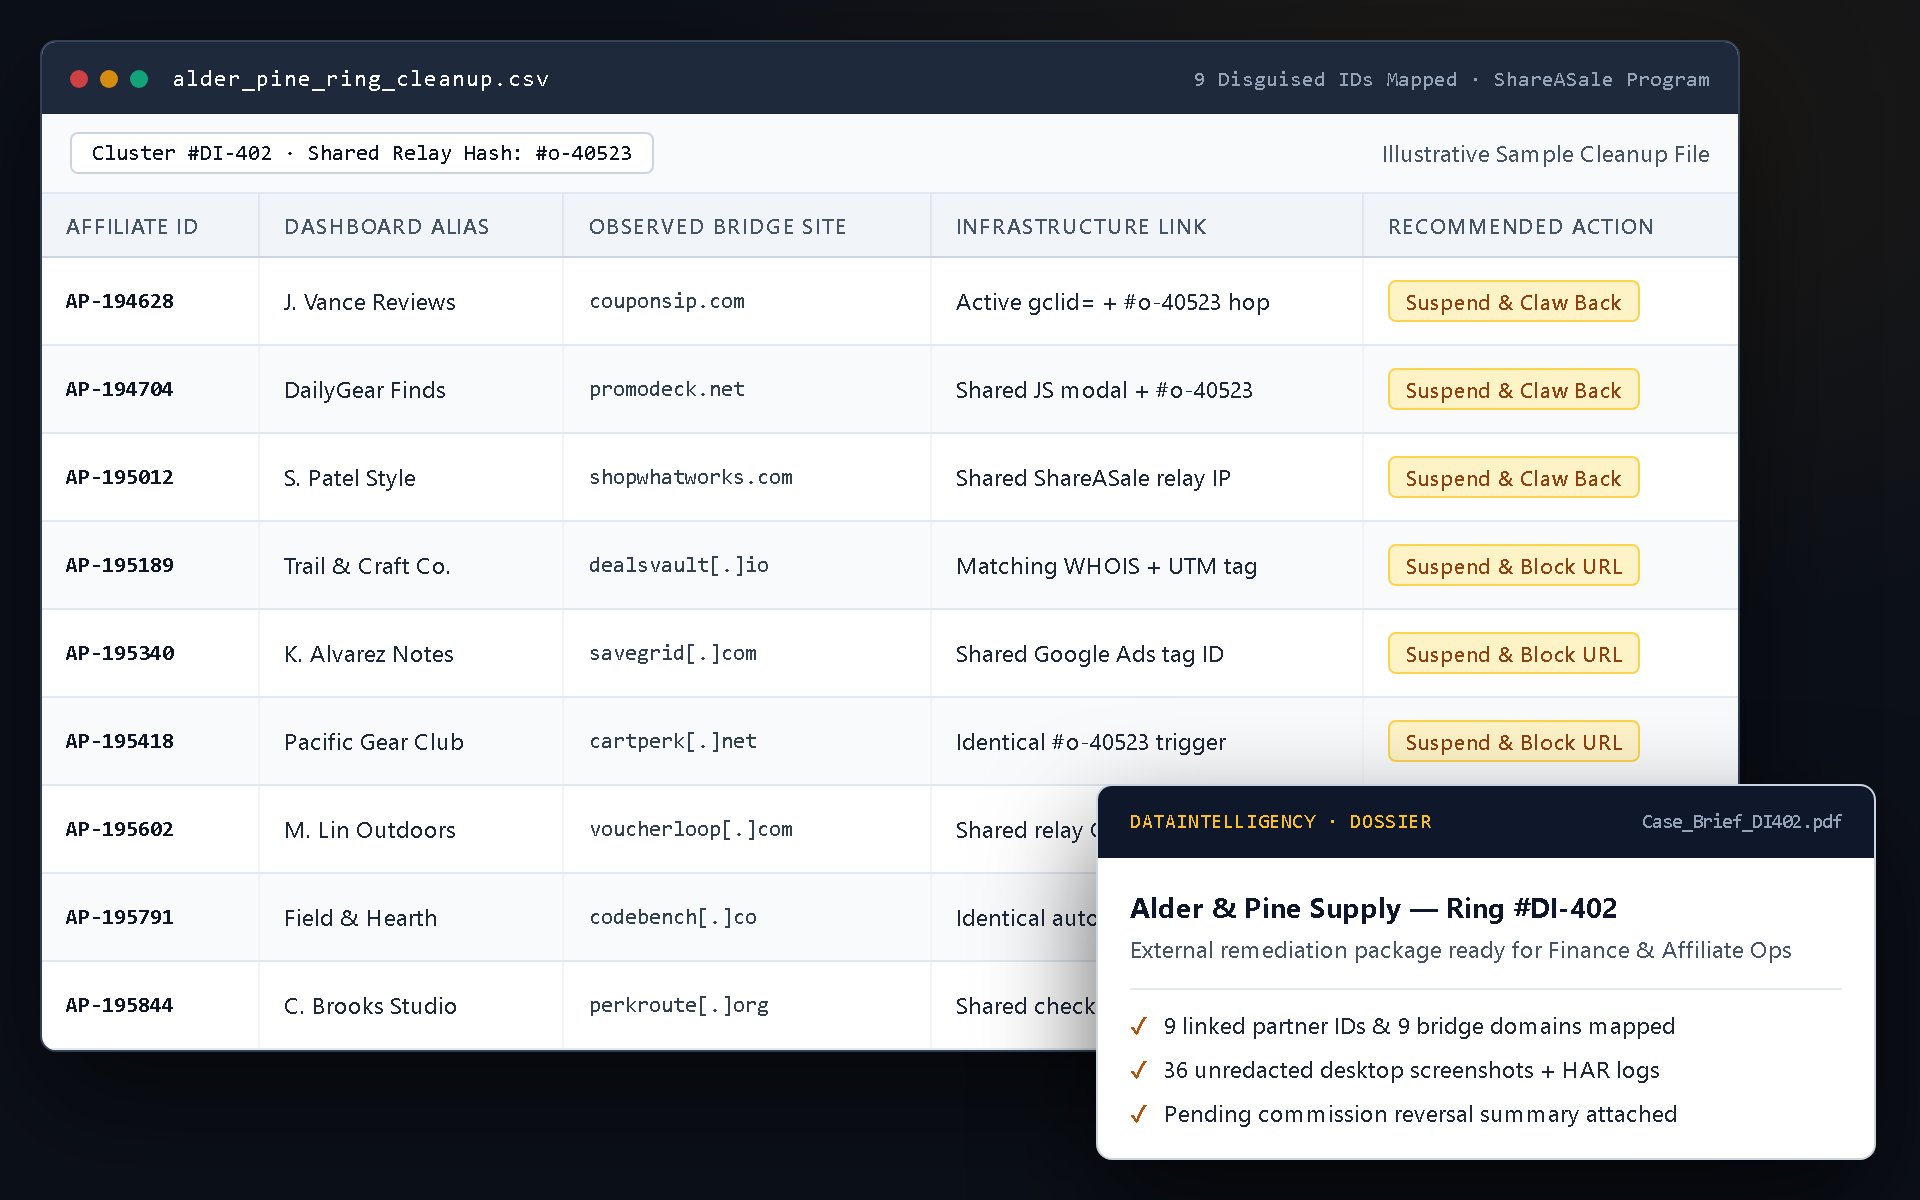
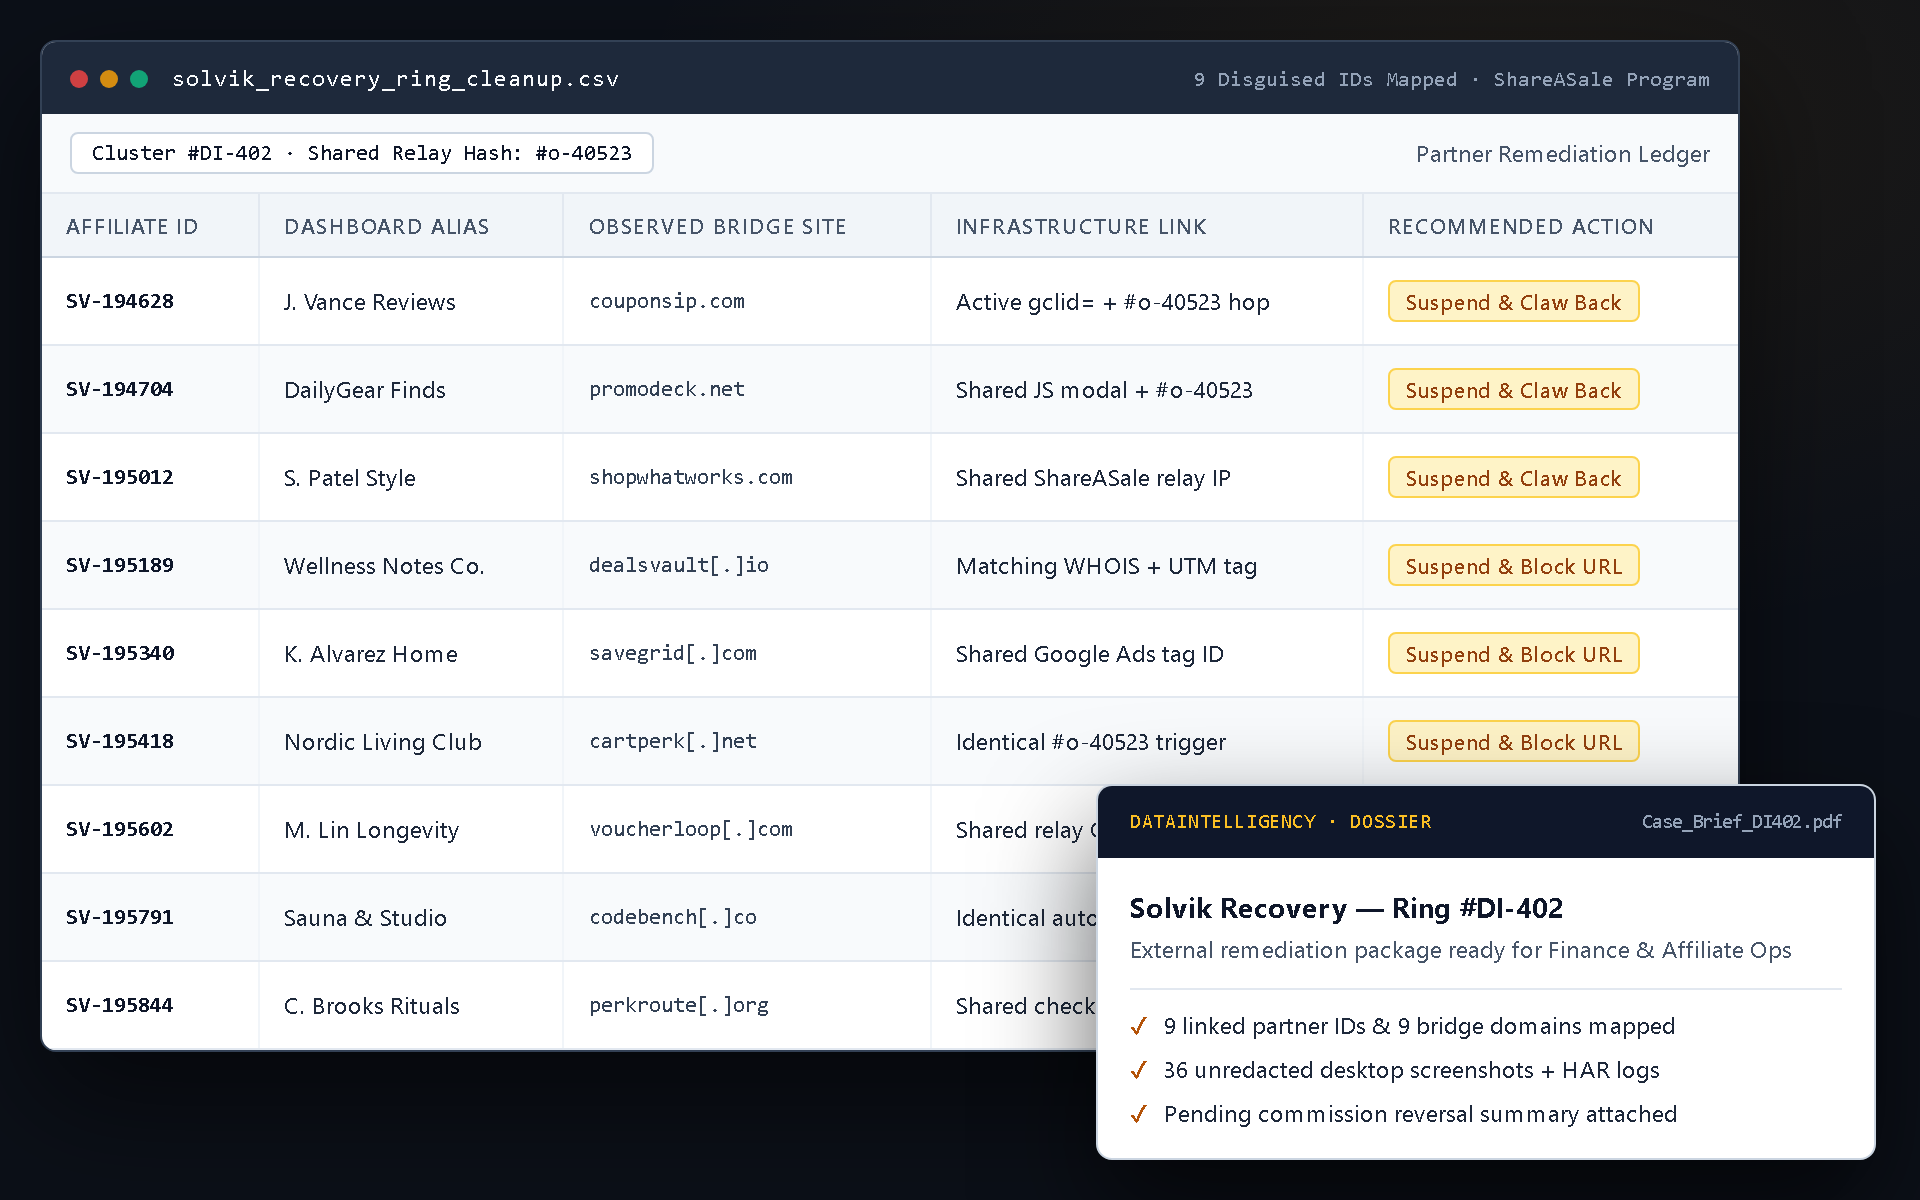
Refine syndicate hero copy and Solvik Recovery DTC captures

diff --git a/src/components/CaptureViewer.tsx b/src/components/CaptureViewer.tsx
@@ -17,9 +17,9 @@ const TRACE_STAGES: TraceStage[] = [
     tag: "High-Intent Checkout Buyer",
     heading: "Ready-to-buy shopper pauses at checkout to search for a code",
     explanation:
-      "The customer already holds an item in their bag on Alder & Pine Supply and opens Google for a promo code. Disguised coupon aggregators dominate the top sponsored and organic slots seconds before payment.",
+      "The customer already has an item in their cart on Solvik Recovery and opens Google for a promo code. Disguised coupon aggregators dominate the top sponsored and organic slots seconds before payment.",
     image: "/captures/stage1.png",
-    alt: "Simulated Chrome search window showing CouponSip and PromoDeck sponsored promo code results above Alder & Pine Supply.",
+    alt: "Google search results showing CouponSip and PromoDeck sponsored promo code listings above Solvik Recovery.",
   },
   {
     id: "hop2",
@@ -30,7 +30,7 @@ const TRACE_STAGES: TraceStage[] = [
     explanation:
       "Inside your affiliate dashboard, this partner poses as an ordinary creator or deal reviewer. Externally, CouponSip runs paid search arbitrage across rotating bridge domains split across separate IDs so none trip velocity alerts.",
     image: "/captures/stage2.png",
-    alt: "Simulated CouponSip bridge page for Alder & Pine showing Google Ads gclid parameter and Show Coupon Code triggers.",
+    alt: "CouponSip bridge page for Solvik Recovery showing Google Ads gclid parameter and Show Coupon Code buttons.",
   },
   {
     id: "hop3",
@@ -41,7 +41,7 @@ const TRACE_STAGES: TraceStage[] = [
     explanation:
       "Clicking to reveal the code opens the pop-over modal and triggers the ShareASale relay link in the background (visible in the lower-left preview bar), stamping a fresh affiliate tracking cookie in the buyer's browser.",
     image: "/captures/stage3.png",
-    alt: "Simulated CouponSip click-to-copy modal showing code ALDER20 and the ShareASale tracking link in Chrome's bottom-left status bar.",
+    alt: "CouponSip click-to-copy modal showing code SOLVIK20 and the ShareASale tracking relay URL in Chrome's status bar.",
   },
   {
     id: "hop4",
@@ -50,9 +50,9 @@ const TRACE_STAGES: TraceStage[] = [
     tag: "Last-Click Reassignment",
     heading: "Your storefront returns stamped with affiliate payout parameters",
     explanation:
-      "Even when the revealed coupon code is rejected at checkout, the landing URL already carries utm_source=shareasale and an active click ID. Standard last-click rules pay the commission when the shopper finishes buying.",
+      "The shopper lands back on your storefront carrying utm_source=shareasale and an active click ID in the address bar. Standard last-click rules pay the commission when they complete checkout.",
     image: "/captures/stage4.png",
-    alt: "Simulated Alder & Pine Supply storefront with bag open showing rejected ALDER20 code while ShareASale UTM tags sit active in the URL bar.",
+    alt: "Solvik Recovery infrared sauna homepage carrying active ShareASale UTM and sscid parameters in the browser address bar.",
   },
 ];
 

diff --git a/src/app/page.tsx b/src/app/page.tsx
@@ -59,13 +59,15 @@ export default function HomePage() {
             <p className="hero-kicker">Brand Protection Intelligence</p>
 
             <h1 className="hero-title">
-              Stop paying commissions on{" "}
-              <span className="hero-title-accent">traffic you already own.</span>
+              You&apos;re paying commissions to syndicates{" "}
+              <span className="hero-title-accent">
+                hijacking your own checkout.
+              </span>
             </h1>
 
             <p className="hero-subtitle">
-              Hidden coupon rings register disguised creator accounts to intercept
-              branded searches right before checkout.
+              These coupon syndicates register disguised creator accounts to
+              intercept branded searches seconds before payment.
             </p>
           </div>
         </div>
@@ -73,14 +75,13 @@ export default function HomePage() {
 
       <section id="captures" className="section section-trace">
         <div className="container">
-          <span className="section-label">Simulated Case Capture · Illustrative Brand</span>
+          <span className="section-label">Illustrative Brand Captures</span>
           <h2 className="section-title">
             How a branded search gets stamped as an affiliate sale
           </h2>
           <p className="section-lead">
-            Recreated step-by-step on a sample storefront (Alder &amp; Pine Supply) to
-            show the exact browser path, bridge pages, and injected payout parameters
-            captured during an audit without exposing private client programs.
+            Follow the complete browser sequence from a branded promo-code search to an
+            injected affiliate payout tag stamped on checkout.
           </p>
 
           <CaptureViewer />
@@ -157,7 +158,7 @@ export default function HomePage() {
             <div className="trace-stage-media">
               <img
                 src="/captures/deliverable-package.png"
-                alt="Sample cleanup file workbook (alder_pine_ring_cleanup.csv) listing 9 linked affiliate IDs paired with an executive Case Brief PDF summary."
+                alt="Cleanup file workbook (solvik_recovery_ring_cleanup.csv) listing 9 linked affiliate IDs paired with an executive Case Brief PDF summary."
               />
             </div>
           </div>

diff --git a/src/app/globals.css b/src/app/globals.css
@@ -244,7 +244,7 @@ main {
 }
 
 .hero-left {
-  max-width: 560px;
+  max-width: 640px;
 }
 
 .hero-kicker {
@@ -258,7 +258,7 @@ main {
 }
 
 .hero-title {
-  font-size: clamp(36px, 4.3vw, 52px);
+  font-size: clamp(34px, 3.9vw, 48px);
   font-weight: 500;
   letter-spacing: -0.032em;
   line-height: 1.08;
